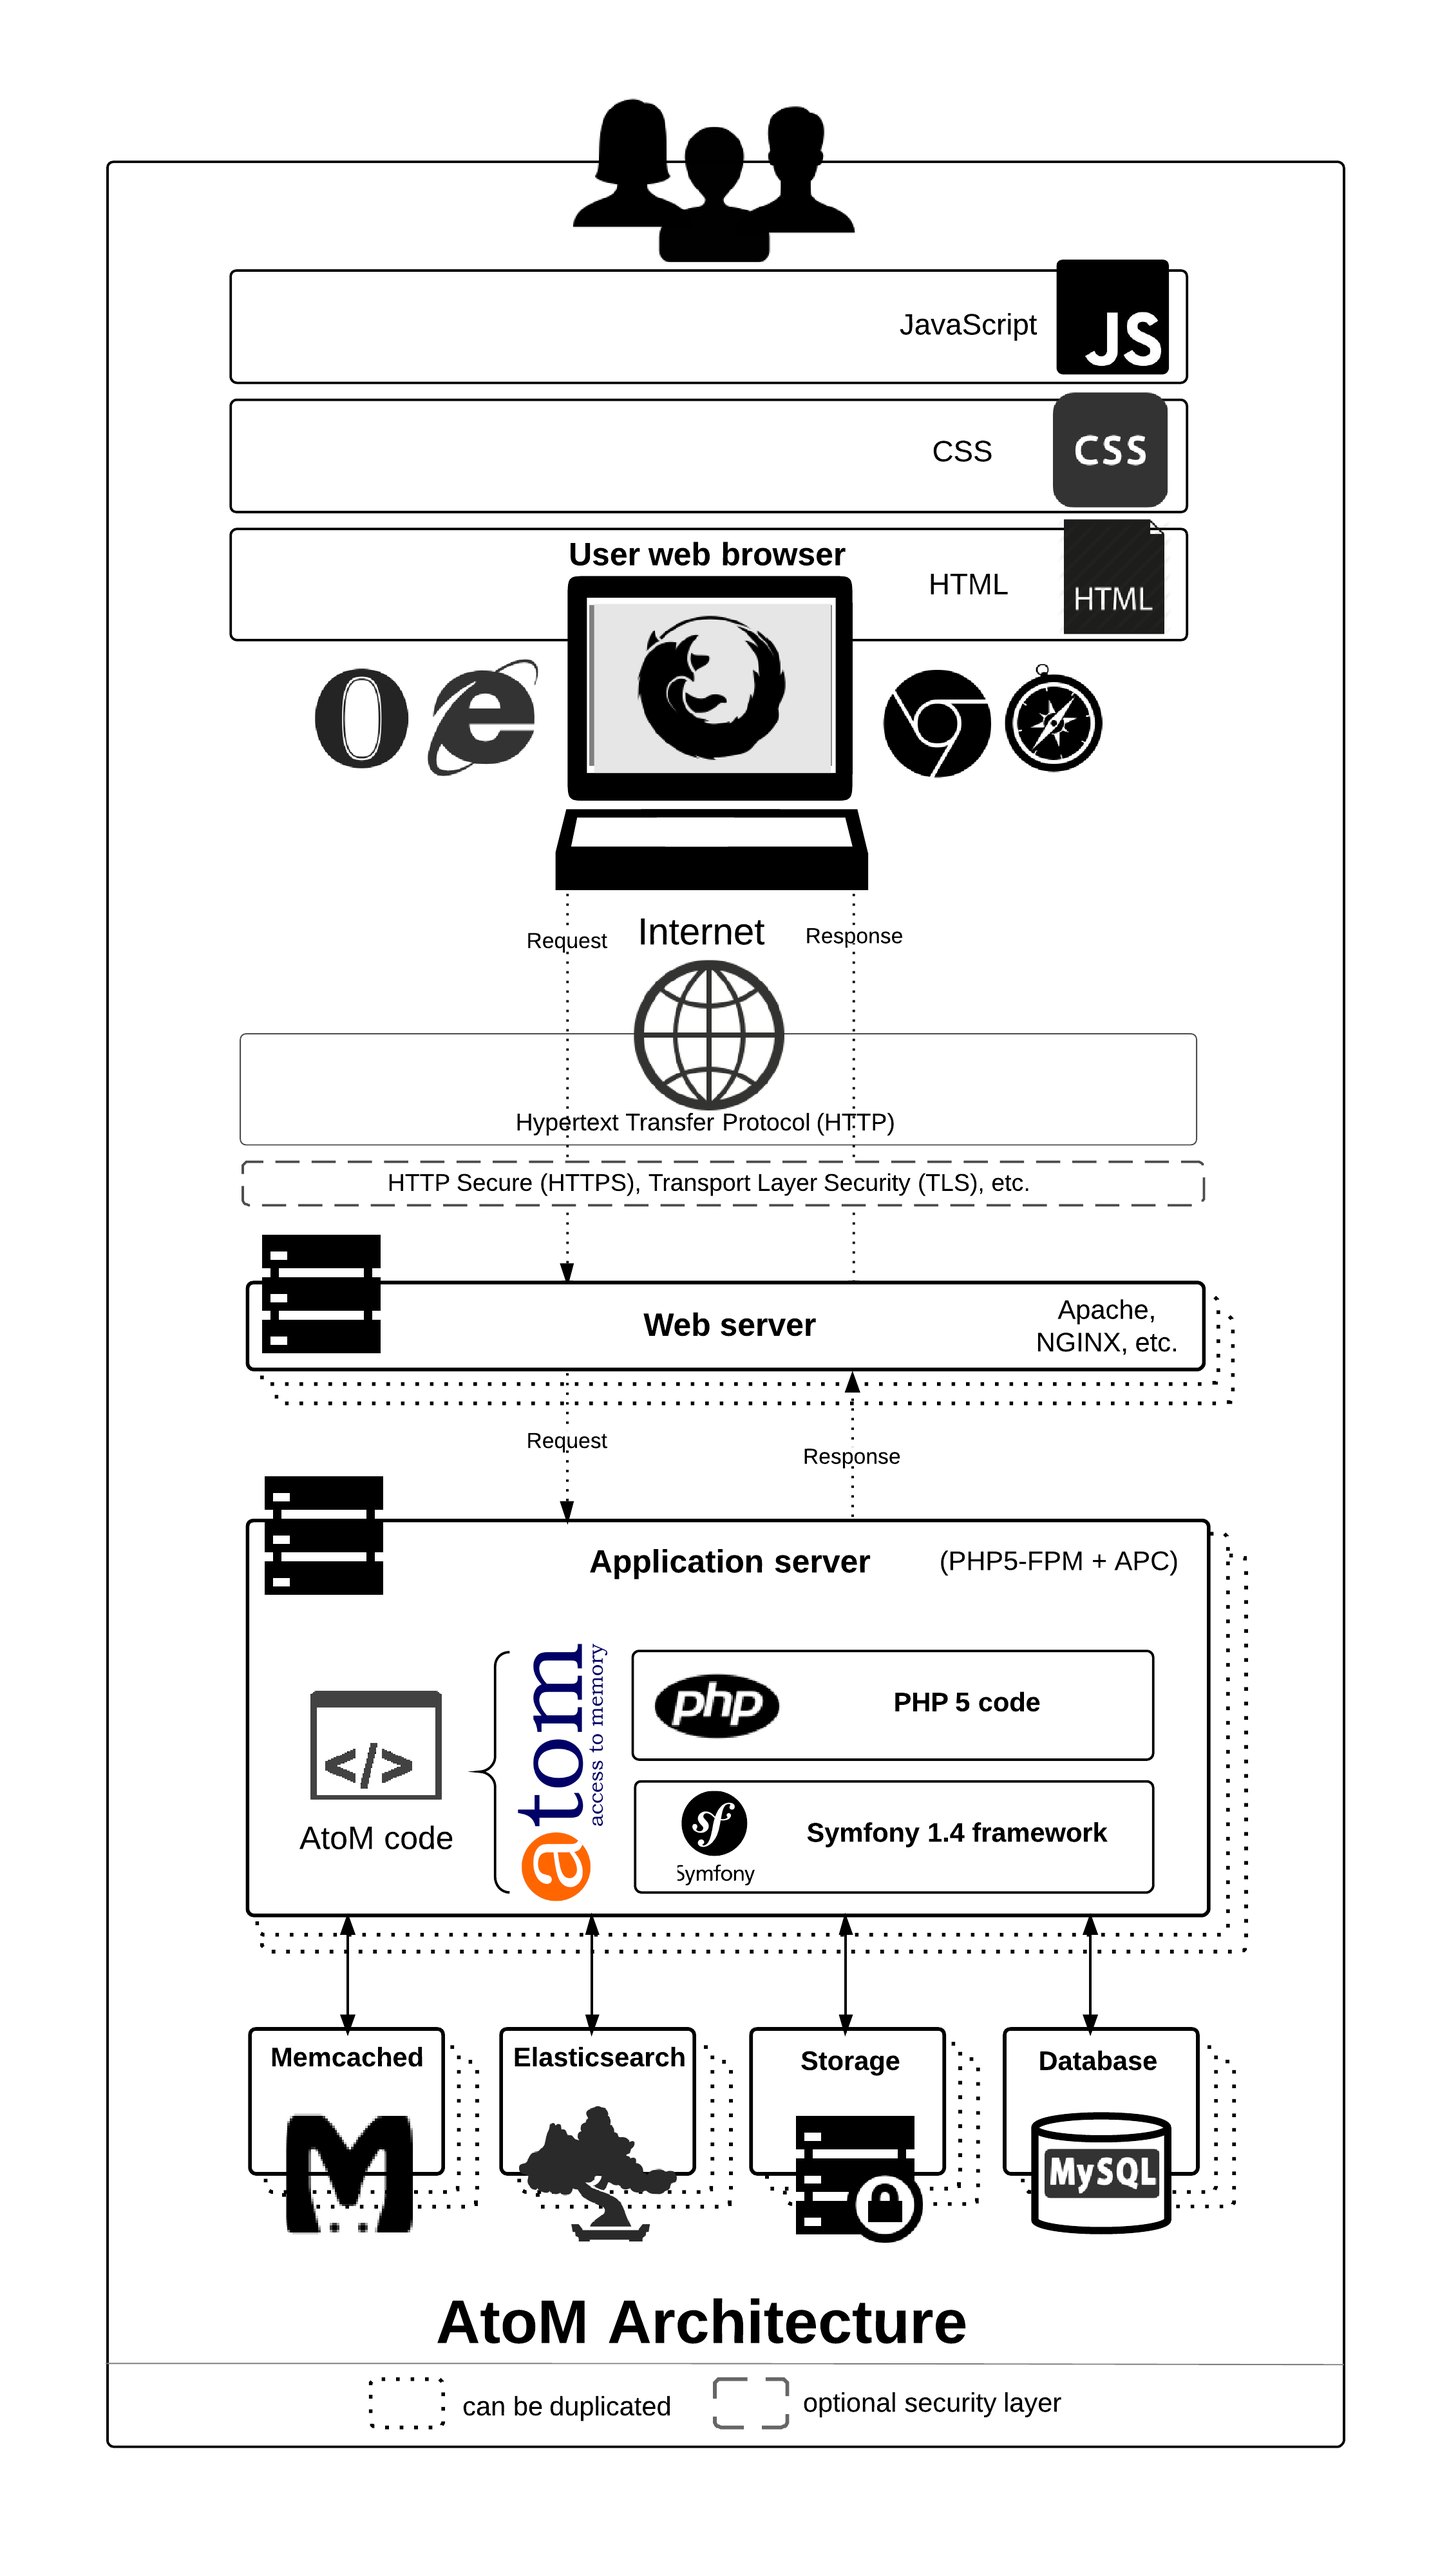
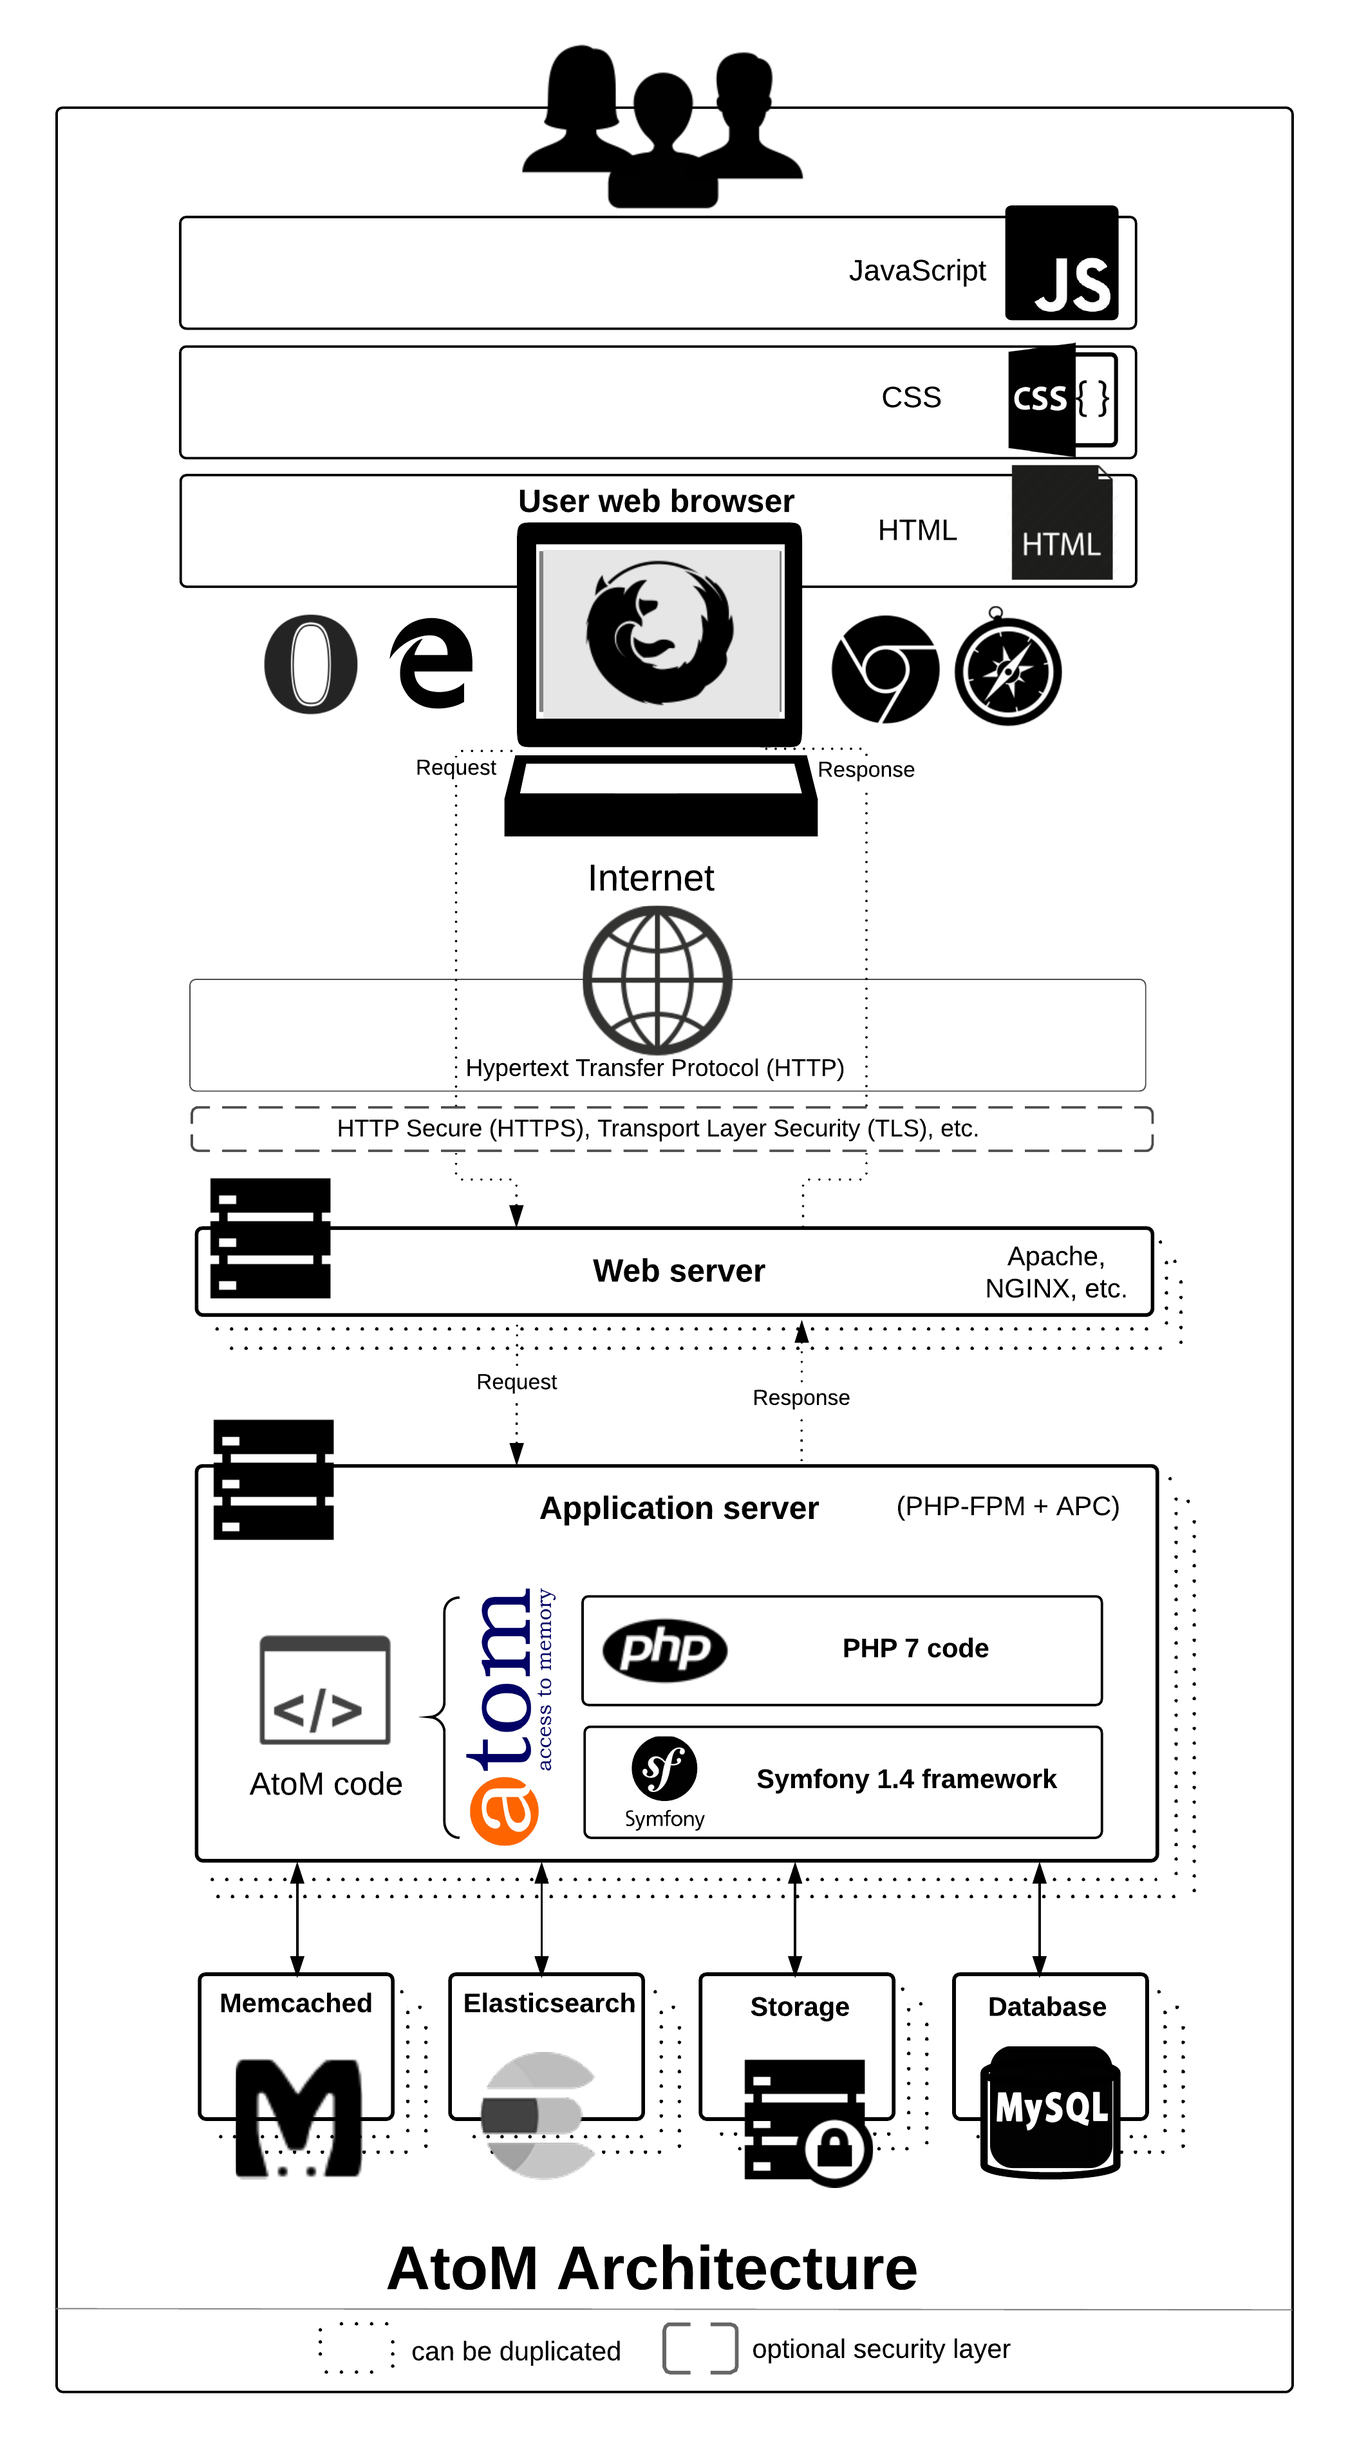
Update intro, refs issue #88

Changed region(s): [[0.1233, 0.0, 0.8634, 0.9688], [0.925, 0.0625, 0.9559, 0.9688], [0.8017, 0.4375, 0.8325, 0.4688]]

diff --git a/user-manual/overview/intro.rst b/user-manual/overview/intro.rst
@@ -22,18 +22,18 @@ Technical overview
 
 HTML pages served to a web browser from a web server. The team at
 `Artefactual <http://www.artefactual.com/>`__ (lead developers of the AtoM
-project) prefers `Nginx <http://wiki.nginx.org/Main>`_ in both development and
+project) prefer `Nginx <http://wiki.nginx.org/Main>`_ in both development and
 production environments, but `Apache <https://httpd.apache.org/>`_ has been
 tested as well; other web servers might be used but they are not tested by
 AtoM :term:`developers <developer>`.
 
 A database on a database server. `MySQL
-<https://en.wikipedia.org/wiki/MySQL>`_ (5.1+) is used in development but AtoM
+<https://en.wikipedia.org/wiki/MySQL>`_ (5.6+) is used in development but AtoM
 uses a database abstraction layer and is therefore potentially compatible with
 Postgres, SQLite, SQLServer, Oracle, etc. (other solutions are not tested by
 AtoM developers)
 
-PHP (5.3.10+) software code that manages requests and responses between the web
+PHP (7.0+) software code that manages requests and responses between the web
 clients, the application logic, and the application content stored in
 the database. AtoM also makes use of a number of PHP extensions; see:
 :ref:`installation-requirements`.
@@ -42,7 +42,7 @@ The Symfony (`1.4 <http://symfony.com/legacy>`_) framework that organizes the
 component parts using object orientation and best practice web design
 patterns.
 
-`Elasticsearch <http://www.elasticsearch.org/>`__ (1.3.0+), a distributed
+`Elasticsearch <http://www.elasticsearch.org/>`__ (5.x), a distributed
 search server based on Apache Lucene, which acts as the application's search
 and analytic engine. Elasticsearch is not integrated directly into AtoM code
 as a library, but as a service deployed in the same network which AtoM
@@ -131,7 +131,8 @@ multiple languages. AtoM comes with several translations installed, all of
 which are generously provided by volunteer translators from the
 AtoM User Community.
 
-Want to help us translate the AtoM application into your language, or improve an existing translation? Find more information on how to contribute
+Want to help us translate the AtoM application into your language, or improve
+an existing translation? Find more information on how to contribute
 `here <https://www.accesstomemory.org/community/translate>`__.
 
 Multi-repository
